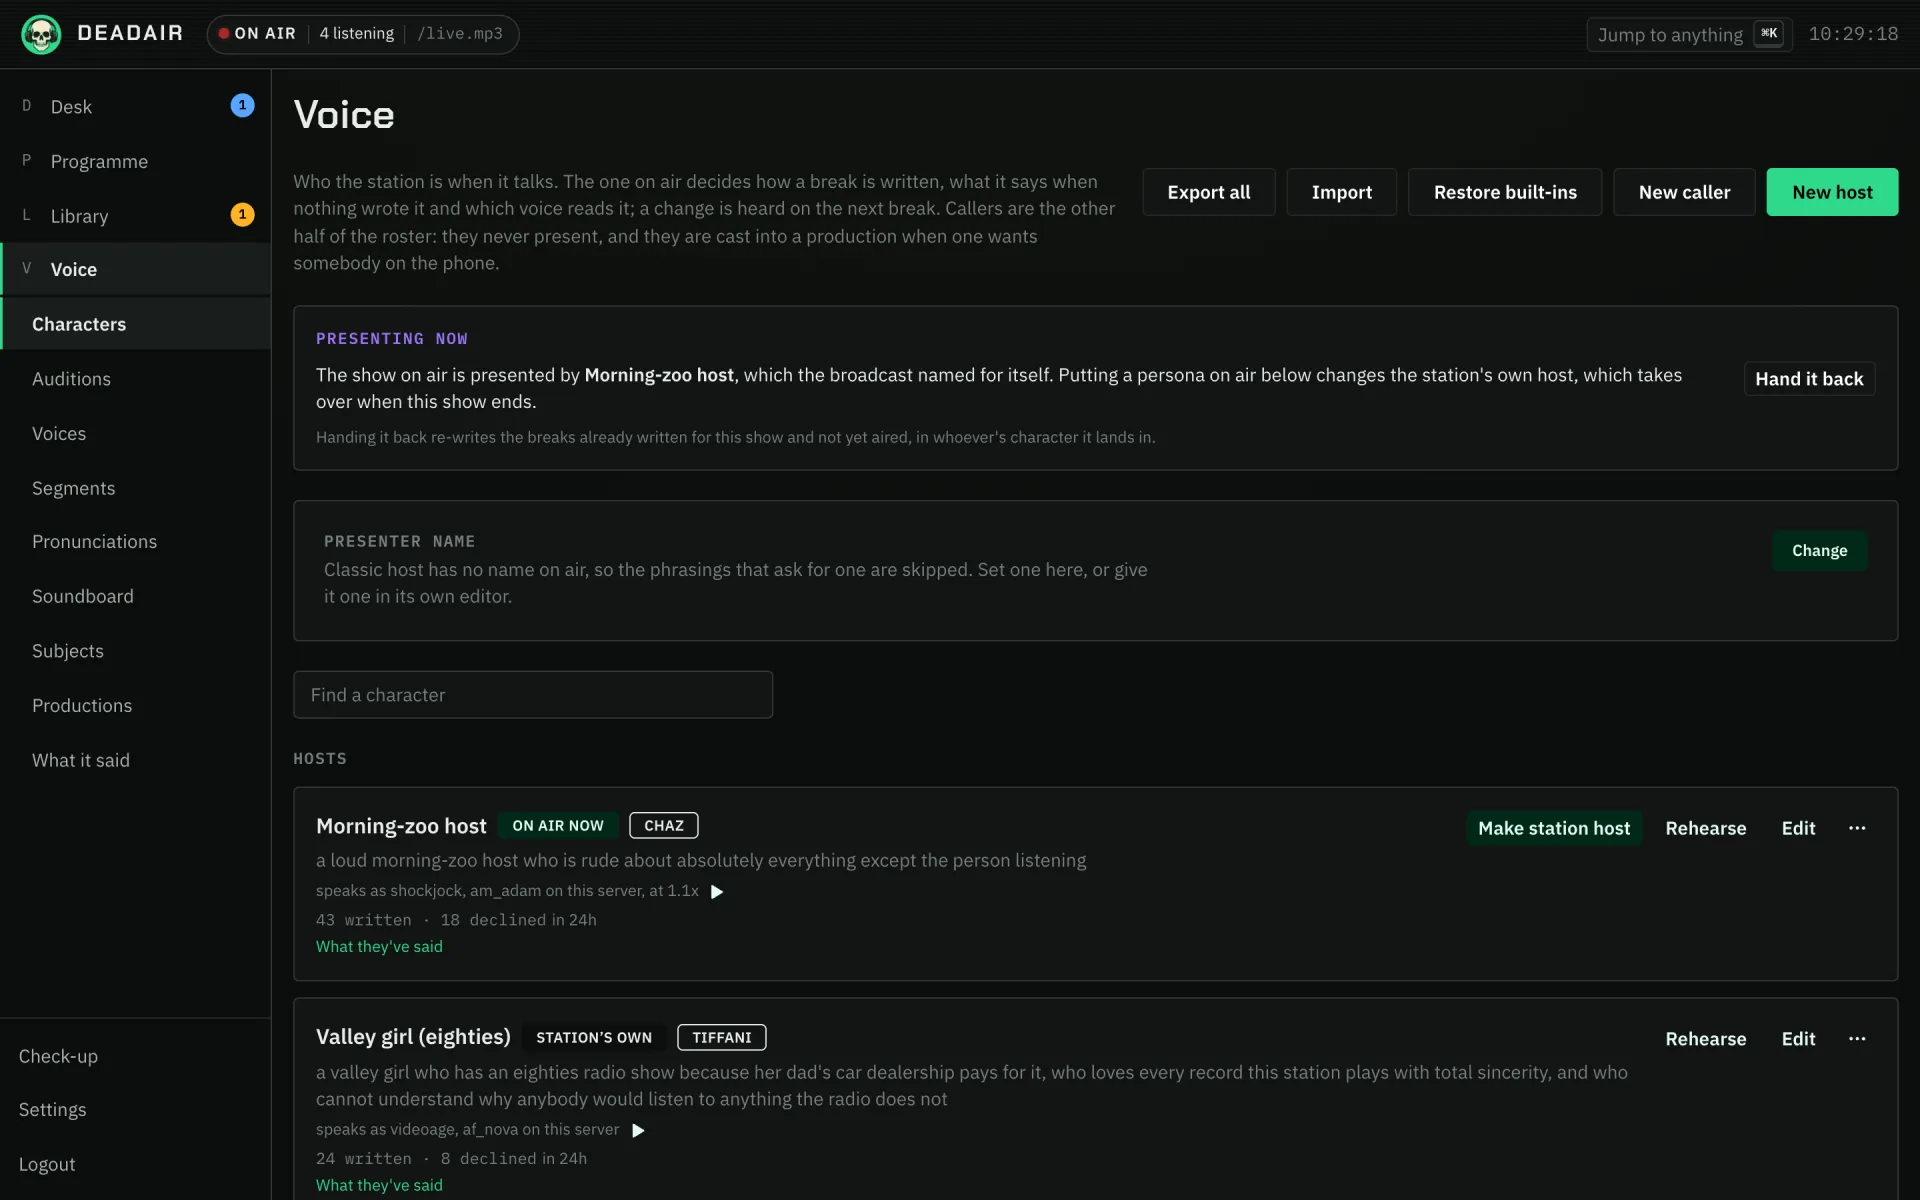
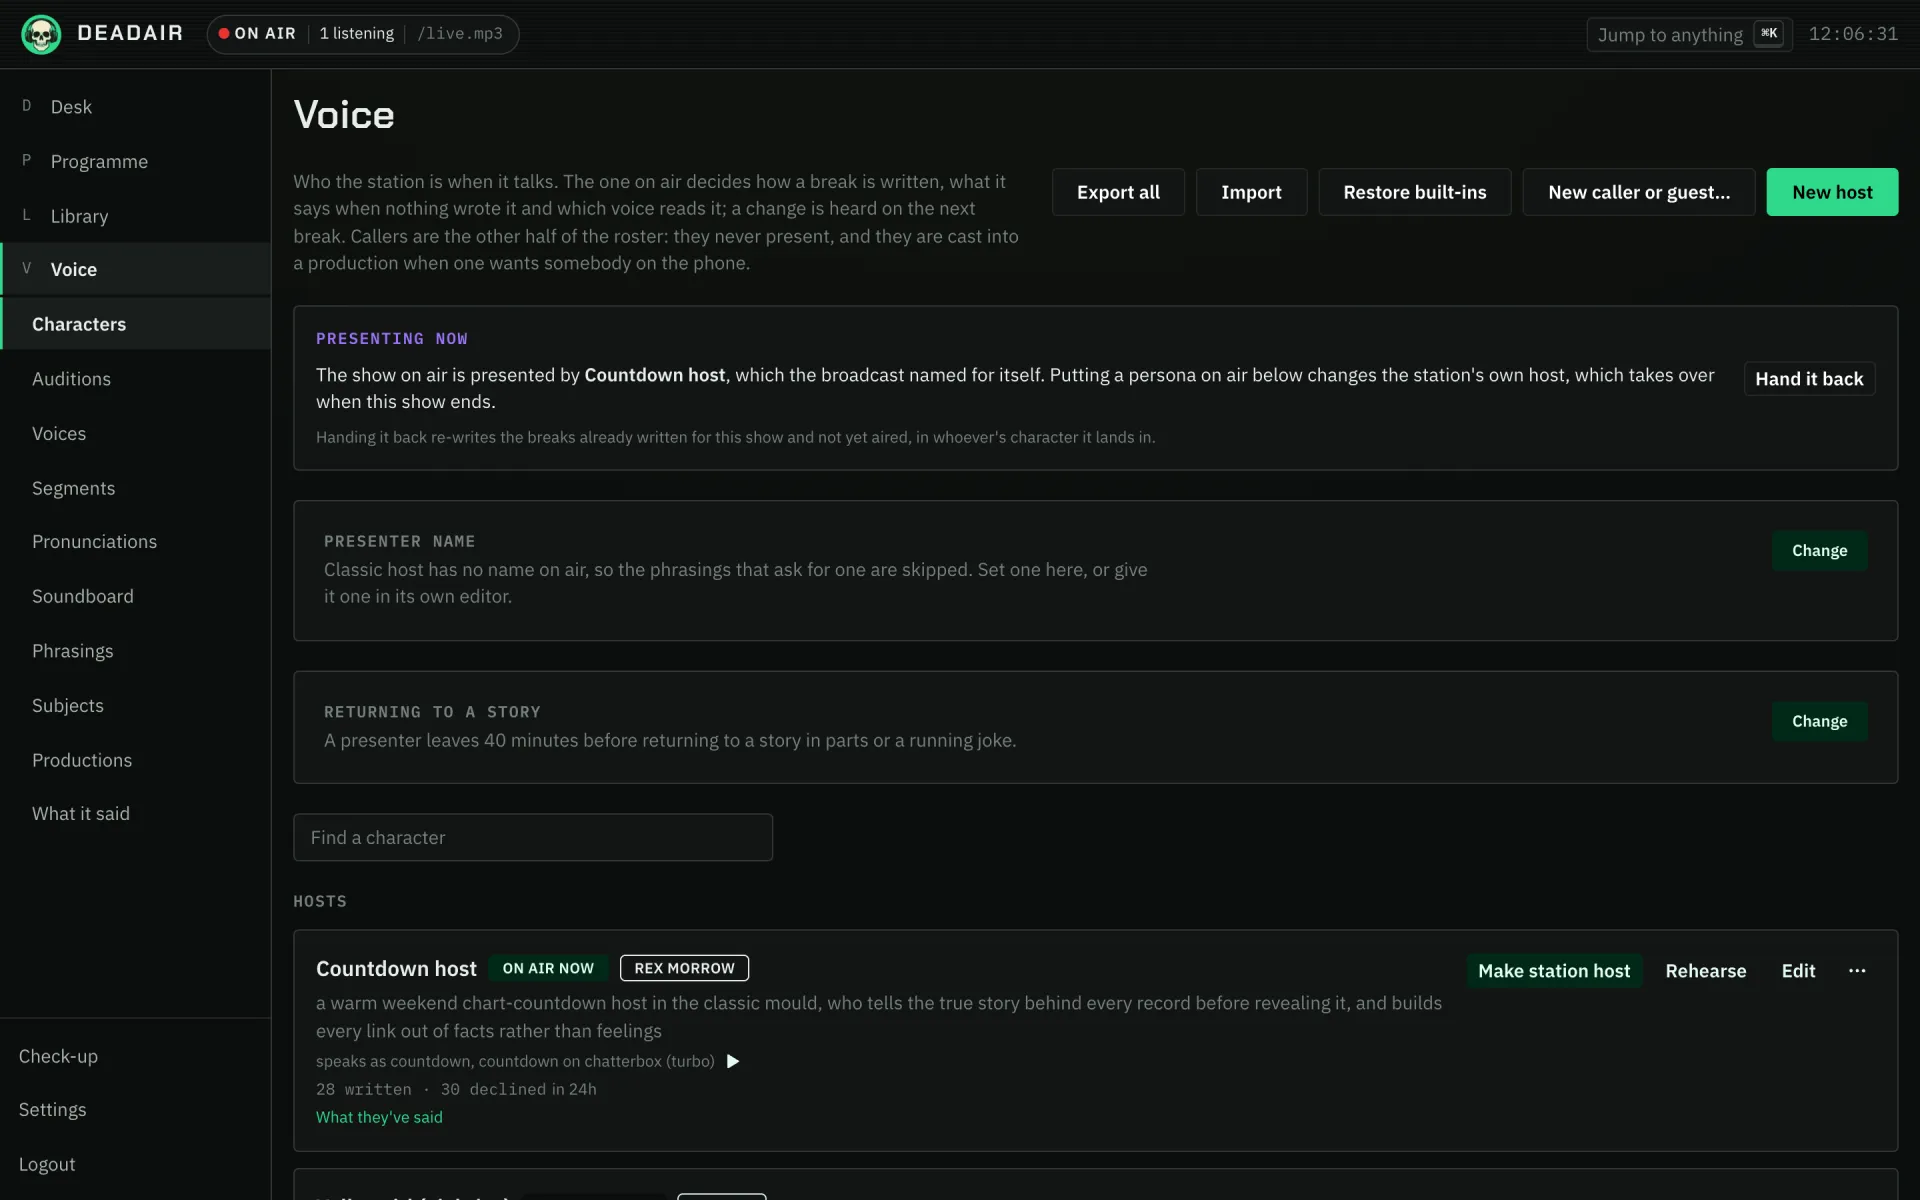
site: screenshots in the tutorials (#758)
Thirteen more tutorials show the console page each step happens on,
photographed from a real station with console.capture.mjs. A holiday
special and Write a character reuse shots that already existed.

The capture script gains a target per figure. --scrub takes
TEXT=>REPLACEMENT, because a LAN address scrubbed into an email reads as
nonsense inside a URL, and a click can press a segmented-control label,
which is how the Plan dialog's tabs are drawn.

The characters shot is retaken: the old one predated the New caller or
guest menu.

diff --git a/apps/site/docs/tutorials/write-a-character.md b/apps/site/docs/tutorials/write-a-character.md
@@ -20,6 +20,10 @@ nothing is waiting on it.
 ### 1. Describe them
 
 1. Open **Voice → Characters**.
+
+   ![Characters: the roster of hosts and callers](/img/console/voice.characters.webp)
+   *Fig. 1. **Voice → Characters**, with **New host** at the top right.*
+
 2. Press **New host**. For somebody who rings in, drops by or reads the news, open **New caller or
    guest…** and choose **New caller**, **New guest** or **New newsreader** instead.
 3. Under **Start from a description**, write one sentence about who they are. Be specific about the
@@ -29,6 +33,9 @@ nothing is waiting on it.
 
 After a few seconds the fields below fill in: who they are, how they talk, the lines they fall back
 on, sample lines and the words that prove a break came back in character. Nothing is saved yet.
+
+![The New host editor: start from a description, then who they are and what they do](/img/console/voice.characters.new.webp)
+*Fig. 2. The **New host** editor. **Start from a description** is at the top.*
 
 The lines they fall back on are **Their own phrasings**, what the character says when no model writes
 the break. The model writes six: what just played and what is next, only what is next, the station's

diff --git a/apps/site/docs/tutorials/throw-a-party.md b/apps/site/docs/tutorials/throw-a-party.md
@@ -28,12 +28,18 @@ field stays yours to change. Write a brief if you want one, then press **Go on a
 A request show is not required. Guests can ask on any show, and their requests land in the next gap
 between records. What Party night adds is that each request steers what comes after it.
 
+![The Plan dialog on Start a new show, with the Party night button under the brief](/img/console/desk.plan.webp)
+*Fig. 1. **Plan → Start a new show** on the Desk. **Party night** is under the brief.*
+
 ## 2. Start a party
 
 Open **Programme → Requests** and press **Start a party** at the top.
 
 Choose how long the code works, in hours (six unless you change it, at most a day), and press
 **Start a party**. The card now shows the code, when it stops working, and how many guests have joined.
+
+![Programme, Requests: the party card and the list of open requests](/img/console/schedule.requests.webp)
+*Fig. 2. **Programme → Requests** before a party has started.*
 
 If the card warns that the code points at `localhost`, you opened the console on the station's own
 machine. A phone cannot reach that address. Open the console at the address the guests use, such as

diff --git a/apps/site/docs/tutorials/produce-a-segment.md b/apps/site/docs/tutorials/produce-a-segment.md
@@ -19,6 +19,10 @@ station; guests you write yourself ([Write a character](./write-a-character.md))
 ## Ask for a production
 
 1. Open **Voice → Productions** and press **Ask for one**.
+
+   ![The Ask for one form: a title, what it should be about, notes, sources, kind and minutes](/img/console/voice.productions.ask.webp)
+   *Fig. 1. The form **Ask for one** opens.*
+
 2. Fill in the form:
 
    | Field | Example |
@@ -50,7 +54,7 @@ Nothing is made while you wait. The production appears in the list and moves thr
 When every beat has been spoken it goes into the running order and shows **in the running order**.
 
 ![Productions: what the station is making, and how far along each one is](/img/console/voice.productions.webp)
-*Fig. 1. Voice → Productions.*
+*Fig. 2. Voice → Productions.*
 
 **To make them regularly,** add a band to the format clock instead (Programme → Today → **Add band**)
 with `podcast` as the **Sort of break**. One is commissioned ahead of every time the band comes round.

diff --git a/apps/site/docs/tutorials/connect-a-model.md b/apps/site/docs/tutorials/connect-a-model.md
@@ -37,6 +37,9 @@ by rule. A model makes the presenter better and never stands between the station
    Such servers do not report it themselves.
 5. Save again.
 
+![The Language model plugin: the reasoning effort, and a row per provider](/img/console/plugins.llm.webp)
+*Fig. 1. **Settings → Plugins → Language model**, with a local Ollama server and Gemini as its two providers.*
+
 ## 2. Tell the station to ask it
 
 Open **Settings → Providers** and check that **Writing** names the Language model plugin. With only one
@@ -61,7 +64,7 @@ at night in the background. Leave them off until the station is settled.
 Save.
 
 ![Settings, Words: a switch and a model for each job](/img/console/settings.llm.webp)
-*Fig. 1. Settings → Words.*
+*Fig. 2. Settings → Words.*
 
 **You should now see** the next talk breaks written by the model. **Voice → What it said** lists every
 break and who wrote it.

diff --git a/apps/site/docs/tutorials/holiday-special.md b/apps/site/docs/tutorials/holiday-special.md
@@ -21,11 +21,17 @@ plays** on under Settings → Words ([Give the station a model](./connect-a-mode
 
 Open **Programme → Specials** and press **New special**.
 
+![Programme, Specials, with no specials yet and the New special button](/img/console/schedule.specials.webp)
+*Fig. 1. **Programme → Specials** on a station with no specials yet.*
+
 ## 2. Fill it in
 
 The editor is the weekly show's, with dates added. This one runs 20:00 to midnight on Halloween,
 which on the station this site is written from lands in the middle of The Boneyard, its weeknight
 metal show:
+
+![The New special editor: a name, hours, dates, and whether it repeats every year](/img/console/schedule.special.editor.webp)
+*Fig. 2. The **New special** editor, before anything is filled in.*
 
 | Field | For Halloween night |
 | --- | --- |

diff --git a/apps/site/docs/tutorials/making-a-voice.md b/apps/site/docs/tutorials/making-a-voice.md
@@ -91,6 +91,9 @@ empty to use whichever Chatterbox model the server has loaded, or name one (`tur
 `multilingual`). Turbo performs laughs and sighs; the other two have dials for how theatrical a voice
 is, and no build does both.
 
+![The Rhapsode plugin: its server, default engine and variant, and the start of the Voices table](/img/console/plugins.rhapsode.webp)
+*Fig. 1. **Settings → Plugins → Rhapsode**. The **Voices** table starts at the bottom of the page.*
+
 If the character's **Voice** is already `latenight`, that is all. Otherwise set it on the character.
 **Voice → Voices** plays a sample of every station voice through the same path a break airs on, so
 listen there with a line that is not the one in the clip, which tests the clone rather than replaying

diff --git a/apps/site/docs/tutorials/chat-platforms.md b/apps/site/docs/tutorials/chat-platforms.md
@@ -63,6 +63,9 @@ Open **Settings → Plugins** and open **Telegram**, **Discord** or **Slack**.
    to it one to one, and linking your own account in step 6 needs it.
 4. Press **Save configuration**.
 
+![The Telegram plugin: the bot token, direct messages, and the groups it answers and announces in](/img/console/plugins.telegram.webp)
+*Fig. 1. **Settings → Plugins → Telegram**, with a token stored and the plugin not yet switched on.*
+
 Saving restarts the plugin with the new settings, so there is nothing else to restart. **You should
 see** the plugin's status turn to **Active**. Send the bot `/now` in a direct message: it answers with
 what is on air, such as `Now playing on Dead Air: Teardrop by Massive Attack (Mezzanine)`.

diff --git a/apps/site/docs/tutorials/another-music-source.md b/apps/site/docs/tutorials/another-music-source.md
@@ -21,6 +21,9 @@ Open **Settings → Plugins** and open the plugin for the source you are adding.
 its settings, and press **Save configuration**. Saving restarts the plugin, so there is nothing else
 to restart. Then press **Test connection**: **You should see** "Connected."
 
+![The Navidrome plugin before it is switched on: server URL, username, password and stream format](/img/console/plugins.navidrome.webp)
+*Fig. 1. **Settings → Plugins → Navidrome**, before it is switched on. Every source has a page like this one.*
+
 Every field is described on the plugin's own page. In brief:
 
 **Navidrome**, or another Subsonic server: **Server URL**, **Username** and **Password**. **Stream

diff --git a/apps/site/docs/tutorials/say-a-name.md b/apps/site/docs/tutorials/say-a-name.md
@@ -22,6 +22,9 @@ go through the pronunciations the station found for itself.
 
 It is in **Said this way** now, and the station says it your way from the next break on.
 
+![Pronunciations: each name as written, and as the station says it](/img/console/voice.pronunciations.webp)
+*Fig. 1. **Voice → Pronunciations**. The rows with a sentence beside them came from the article the station found the name in.*
+
 **Write the "said" form however your speech engine reads best.** It goes to the engine untouched.
 Plain respelling, with hyphens between syllables, works on every engine. An engine that takes its
 own phoneme markup, such as Kokoro, can be given that instead.

diff --git a/apps/site/docs/tutorials/home-assistant.md b/apps/site/docs/tutorials/home-assistant.md
@@ -60,6 +60,9 @@ The address the station needs is `http://<your Home Assistant>:8123/api/webhook/
 
 Open **Settings → Event destinations**.
 
+![Event destinations: no destinations yet, and the form for a new one](/img/console/settings.events.webp)
+*Fig. 1. **Settings → Event destinations** on a station that sends events nowhere yet.*
+
 1. **Name** it, say _On Air light_, and paste the address from step 1 into **Address**.
 2. Under **Events to send**, choose `track.started`, `talk.started`, `production.started`,
    `programme.started` and `station.offAir`. Left empty, a destination is sent every event, including

diff --git a/apps/site/docs/tutorials/let-friends-listen.md b/apps/site/docs/tutorials/let-friends-listen.md
@@ -62,6 +62,9 @@ While you are in **Settings → Stream**, two more settings are worth a look for
 - **Most listeners on each stream** caps how many people can listen at once. Saving it drops everybody
   listening for a few seconds, so change it when nobody is.
 
+![Settings, Stream: the bitrates, the extra formats, and the HLS settings](/img/console/settings.stream.webp)
+*Fig. 1. **Settings → Stream**. **Public URL** and **Most listeners on each stream** are further down.*
+
 ## 3. Invite them
 
 1. Open the console **at its public address**, not at `localhost` or your network address. A link

diff --git a/apps/site/docs/tutorials/house-rules.md b/apps/site/docs/tutorials/house-rules.md
@@ -58,6 +58,9 @@ a never-play rule.
 
 The rule applies from the next record the station chooses. Records already queued stay.
 
+![Leans and rules: a lean toward some genres, and the never-play rules with the form for a new one](/img/console/schedule.rules.webp)
+*Fig. 1. **Programme → Leans and rules**, with one rule already in force: no live recordings.*
+
 **A record nobody tagged is never refused by a rule.** A rule matches the genres and tags the station
 holds for a record, so it is only as good as those. A record that slips through can still
 be disliked.
